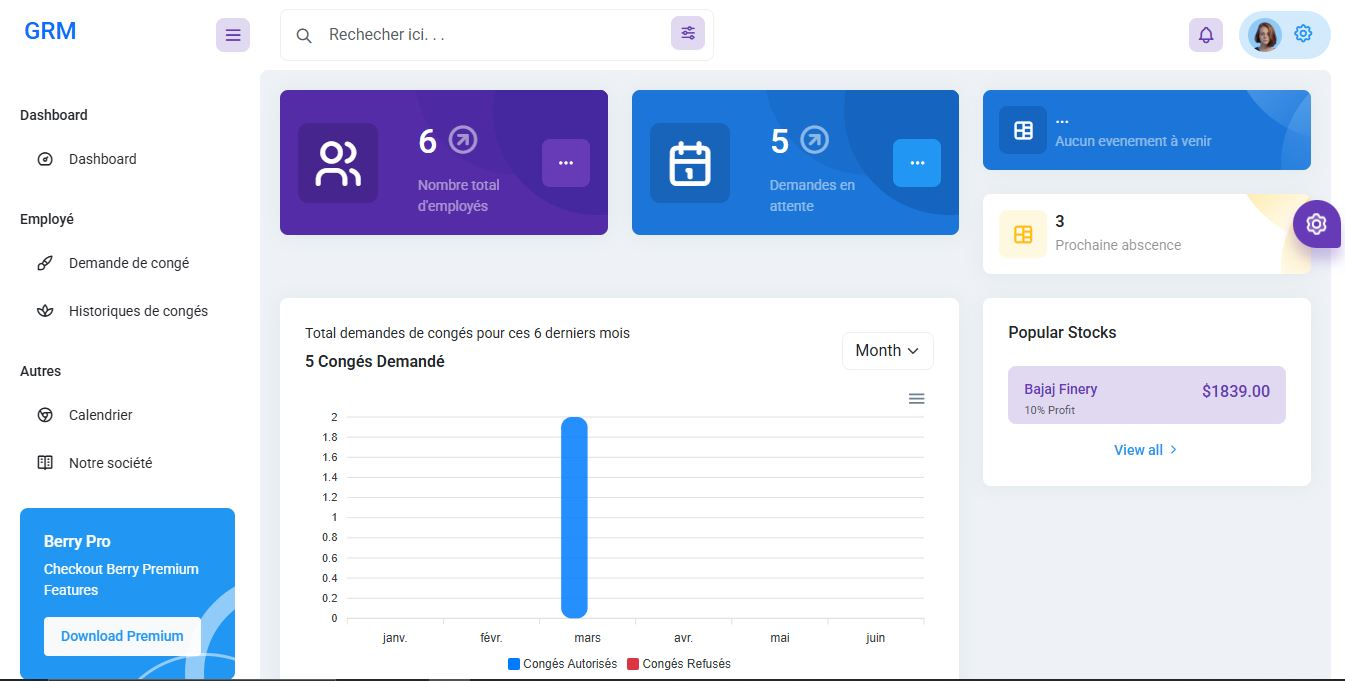
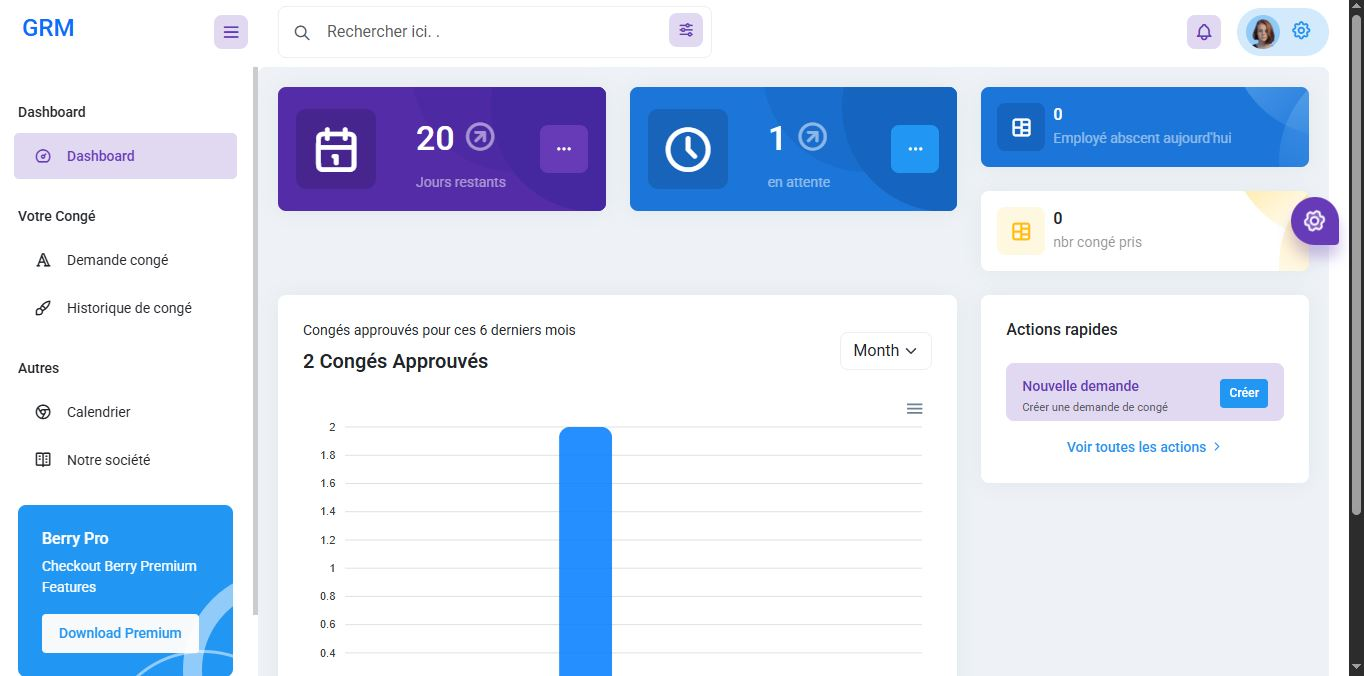
ajout lien projet git

diff --git a/app/components/sections/Projects.tsx b/app/components/sections/Projects.tsx
@@ -8,7 +8,7 @@ const projects = [
     description:
       "Application web centralisée permettant d'automatiser et de simplifier les demandes de congés au sein d'une organisation.",
     tags: ["Node js", "Angular", "PostgreSQL"],
-    github: "https://github.com/RojoFitahiana/systeme-rh",
+    github: "https://github.com/RojoFitahiana/gestion_conge.git",
     demo: null,
     status: "",
     featured: true,
@@ -19,7 +19,7 @@ const projects = [
     description:
       "Développement d'une application web intuitive conçue pour planifier, centraliser et optimiser l'organisation de voyages des Taxi-brousse",
     tags: ["Spring Boot", "React js", "MySQL", "Stripe"],
-    github: "https://github.com/RojoFitahiana/plateforme-formation",
+    github: "https://github.com/RojoFitahiana/gestion-voyage.git",
     demo: "https://formation-demo.vercel.app",
     status: "en cours",
     featured: false,
@@ -30,7 +30,7 @@ const projects = [
     description:
       "Développement d'une solution numérique centralisée permettant de suivre, d'enregistrer et de piloter la présence des collaborateurs ou des étudiants.",
     tags: ["Spring Boot", "Angular", "Oracle DB", "CI/CD"],
-    github: "https://github.com/RojoFitahiana/app-universitaire",
+    github: "https://github.com/RojoFitahiana/Qtrackr.git",
     demo: null,
     status: "terminé",
     featured: false,